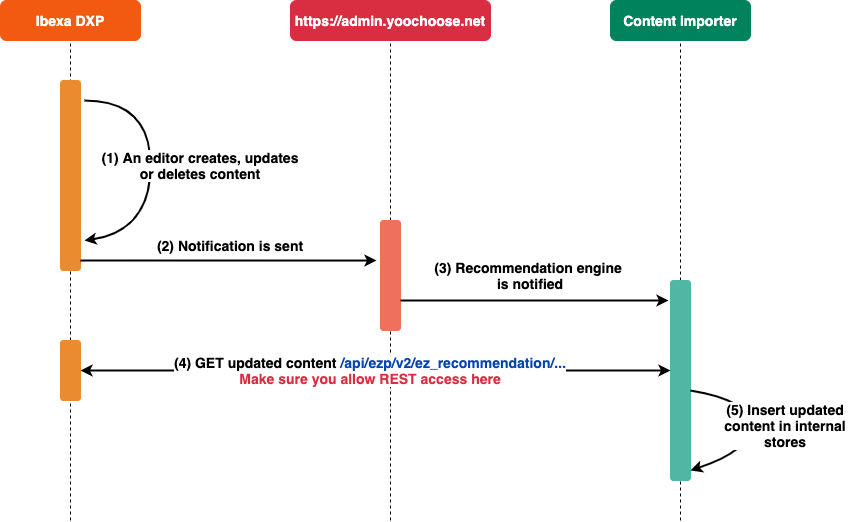
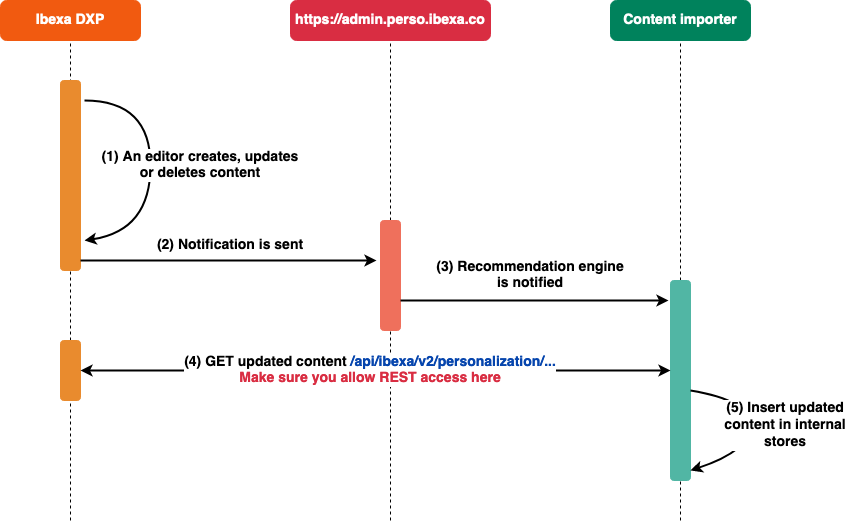
Fixes after review

diff --git a/docs/guide/personalization/enabling_personalization.md b/docs/guide/personalization/enabling_personalization.md
@@ -60,7 +60,7 @@ the Personalization server must receive a list of item types that are tracked.
 You define item types to be tracked in the `config/packages/ibexa.yaml` file.
 The content is then initially exported by a script.
 After this, it is synchronized with the Personalization service every time a change 
-occurs in the Back Office.
+occurs (using any method that trigers the event).
 
 The Personalization configuration is SiteAccess-aware.
 If your installation [hosts multiple sites]([[= user_doc =]]/personalization/use_cases/#multiple-stores) with different customer IDs, 
@@ -240,6 +240,12 @@ The export process can take several minutes.
 #### Check export results
 
 There are three ways to check whether content was transferred and stored successfully in the Personalization server:
+
+- [REST request to client's content store](#rest-request-to-clients-content-store)
+
+- [Personalization backend](#personalization-backend)
+
+- [Subsequent content exports](#subsequent-content-exports)
 
 ##### REST request to client's content store
 
